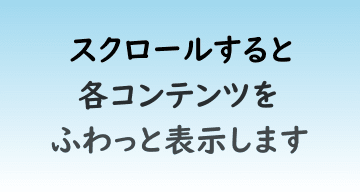
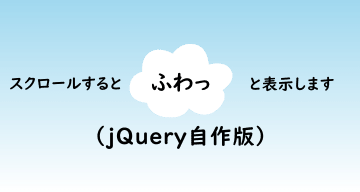
UPDATE

Changed region(s): [[0.0306, 0.1875, 0.9472, 0.625], [0.1222, 0.6562, 0.8556, 0.8125]]

diff --git a/sample-code/54/index.html b/sample-code/54/index.html
@@ -1,0 +1,151 @@
+<!DOCTYPE html>
+<html lang="ja">
+<head prefix="og: http://ogp.me/ns# article: http://ogp.me/ns/article#">
+  <meta charset="utf-8">
+  <meta http-equiv="X-UA-Compatible" content="IE=edge">
+  <meta name="viewport" content="width=device-width,initial-scale=1">
+  <link rel="stylesheet" href="style.css">
+  <link rel="icon" href="../../favicon.ico">
+  <link rel="canonical" href="https://yellowredfox.github.io/sample-code/54">
+  <title>スクロール時に、ふわっと表示させる方法（ScrollReveal.js版）</title>
+  <meta name="format-detection" content="telephone=no">
+  <meta name="description" content="ページをスクロールすると、各コンテンツが下からふわっと表れるようにする方法です。ScrollReveal.js使用。">
+  <meta name="author" content="イールド（月の森デザイン）">
+  <meta property="og:locale" content="ja_JP">
+  <meta property="og:site_name" content="キアカラボ">
+  <meta property="og:title" content="スクロール時に、ふわっと表示させる方法（ScrollReveal.js版）">
+  <meta property="og:description" content="ページをスクロールすると、各コンテンツが下からふわっと表れるようにする方法です。ScrollReveal.js使用。">
+  <meta property="og:type" content="article">
+  <meta property="og:url" content="https://yellowredfox.github.io/sample-code/54">
+</head>
+<body>
+
+  <header class="header">
+    <div class="header__container">
+      <h1 class="siteTitle" data-subtitle="スクロール時に、ふわっと表示させる方法（ScrollReveal.js版）">スクロールふわっと</h1>
+    </div>
+  </header>
+
+  <main class="main">
+    <div class="main__inner">
+
+      <section class="contents">
+        <h2 class="heading-2" data-subheading="A brief description of the code">コード概要</h2>
+        <section class="content">
+          <h3 class="heading-3">要点</h3>
+          <p>今回は、ふわっと表示です。ページをスクロールしていくと、各コンテンツが少し下の位置からふわっと表れるようにする方法です。以前、<a href="https://yellowredfox.github.io/sample-code/3">jQueryを利用して自作</a>しましたが、今回は jQueryライブラリのScrollReveal.jsを試してみました。ポイントは以下ようです。</p>
+          <ul>
+            <li>事前に、ふわっと表示したい領域（ここでは .content）を用意しておく。</li>
+            <li>jQuery・ScrollReveal.js・main.jsを読み込む。</li>
+            <li>ScrollReveal.jsに関する設定を main.jsで行う。ふわっと表示したい領域（ここでは '.content'）を指定し、あとは、duration・viewFactor・distanceなどの設定を行えば OKです。</li>
+          </ul>
+        </section>
+        <!-- /.content -->
+        <section class="content">
+          <h3 class="heading-3">コード</h3>
+          <h4 class="heading-4">HTML</h4>
+<pre class="code">
+<code>
+&lt;!-- ふわっと表示したい領域 --&gt;
+&lt;section class="content"&gt;
+～（コンテンツ）～
+&lt;/section&gt;
+
+&lt;!-- jQuery・ScrollReveal.js・main.jsを読み込む --&gt;
+&lt;script src="https://ajax.googleapis.com/ajax/libs/jquery/3.3.1/jquery.min.js"&gt;&lt;/script&gt;
+&lt;script src="https://unpkg.com/scrollreveal"&gt;&lt;/script&gt;
+&lt;script src="main.js"&gt;&lt;/script&gt;
+</code>
+</pre>
+
+          <h4 class="heading-4">jQuery</h4>
+<pre class="code">
+<code>
+$(function() {
+  ScrollReveal().reveal('.content', { 
+    duration: 2000, // アニメーションの開始から終了までの時間
+    viewFactor: 0.3, // どれくらい見えたら実行するか指定（値：0～1）
+    distance: '100px', // 下から移動表示する場合の長さ
+  });
+});
+</code>
+</pre>
+
+        </section>
+        <!-- /.content -->
+      </section>
+      <!-- /.contents -->
+
+      <section class="contents">
+        <h2 class="heading-2" data-subheading="Articles related to this information">関連記事</h2>
+        <section class="content">
+          <ul>
+            <li><a href="https://yellowredfox.github.io/sample-code/3">スクロール時に、ふわっと表示させる方法（jQuery自作版）</a></li>
+          </ul>
+        </section>
+        <!-- /.content -->
+      </section>
+      <!-- /.contents -->
+
+      <section class="contents">
+        <h2 class="heading-2" data-subheading="Editor's Note and Document that I used as a reference">編集後記</h2>
+        <section class="content">
+          <h3 class="heading-3">あとがき</h3>
+          <ul>
+            <li>時間をかけずに、スクロール時にふわっと表示させたいときは便利です。</li>
+          </ul>
+        </section>
+        <!-- /.content -->
+        <section class="content">
+          <h3 class="heading-3">参考資料</h3>
+          <p>試用しました。ありがとうございました。</p>
+          <ul>
+            <li><a href="https://scrollrevealjs.org/" target="_blank" rel="noopener noreferrer">ScrollReveal</a></li>
+          </ul>
+        </section>
+        <!-- /.content -->
+      </section>
+      <!-- /.contents -->
+
+      <div class="postFooter">
+        <div class="postDate">
+          作成日: <time class="releaseDate" datetime="2021-6-25">2021年6月25日</time>
+        </div>
+        <div class="postAuthor">
+          投稿者: イールド
+        </div>
+      </div>
+      <!-- /.postFooter -->
+
+    </div>
+    <!-- /.main__inner -->
+  </main>
+  
+  <footer class="footer">
+    <div class="footer__inner">
+      <div class="profile">
+        <a class="backSignboard" href="https://yellowredfox.github.io/">
+          <img class="backSignboard__logo" src="../../img/logo-yellowredfox.png" alt="月の森デザインの漫画キャラクター：黄赤狐のプロフィールロゴ">
+          <h2 class="backSignboard__title">キアカラボ</h2>
+        </a>
+        <p class="office">
+          キアカラボは「<a href="https://moon-forest-design.com/" title="ホームページ制作の「月の森デザイン」" target="_blank" rel="noopener noreferrer">月の森デザイン</a>」の姉妹サイトです。
+        </p>
+      </div>
+      <div class="copyright">
+        <p><small>Copyright &copy; 2021 <a class="copyrightHolder" href="https://moon-forest-design.com/" title="ホームページ制作の「月の森デザイン」" target="_blank" rel="noopener noreferrer">月の森デザイン</a> All Rights Reserved.</small></p>
+      </div>
+    </div>
+  </footer>
+
+  <noscript>
+    <p>お使いのWebブラウザは、JavaScriptの設定がOFF（無効）になっているようです。</p>
+    <p>このWebサイトを、より良い形でご利用になるためには、JavaScriptの設定をON（有効）にする必要があります。</p>
+    <p>お手間さまですが、ご検討くださいますよう、よろしくお願い申しあげます。</p>
+  </noscript>
+  <script src="https://ajax.googleapis.com/ajax/libs/jquery/3.3.1/jquery.min.js"></script>
+  <script src="https://unpkg.com/scrollreveal"></script>
+  <script src="main.js"></script>
+
+</body>
+</html>

diff --git a/sample-code/3/index.html b/sample-code/3/index.html
@@ -7,14 +7,14 @@
   <link rel="stylesheet" href="style.css">
   <link rel="icon" href="../../favicon.ico">
   <link rel="canonical" href="https://yellowredfox.github.io/sample-code/3">
-  <title>ページをスクロールすると、各コンテンツが下からふわっと表れるようにする方法</title>
+  <title>スクロール時に、ふわっと表示させる方法（jQuery自作版）</title>
   <meta name="format-detection" content="telephone=no">
-  <meta name="description" content="ページをスクロールすると、各コンテンツが下からふわっと表れるようにする方法です。jQuery使用。">
+  <meta name="description" content="ページをスクロールすると、各コンテンツが下からふわっと表れるようにする方法です。jQueryを利用して自作。">
   <meta name="author" content="イールド（月の森デザイン）">
   <meta property="og:locale" content="ja_JP">
   <meta property="og:site_name" content="キアカラボ">
-  <meta property="og:title" content="ページをスクロールすると、各コンテンツが下からふわっと表れるようにする方法">
-  <meta property="og:description" content="ページをスクロールすると、各コンテンツが下からふわっと表れるようにする方法です。jQuery使用。">
+  <meta property="og:title" content="スクロール時に、ふわっと表示させる方法（jQuery自作版）">
+  <meta property="og:description" content="ページをスクロールすると、各コンテンツが下からふわっと表れるようにする方法です。jQueryを利用して自作。">
   <meta property="og:type" content="article">
   <meta property="og:url" content="https://yellowredfox.github.io/sample-code/3">
 </head>
@@ -22,7 +22,7 @@
 
   <header class="header">
     <div class="header__container">
-      <h1 class="siteTitle" data-subtitle="ページをスクロールすると">ふわっと表示する方法</h1>
+      <h1 class="siteTitle" data-subtitle="スクロール時に、ふわっと表示させる方法（jQuery自作版）">スクロールふわっと</h1>
     </div>
   </header>
 
@@ -101,8 +101,8 @@ $(function() {
         <h2 class="heading-2" data-subheading="Articles related to this information">関連記事</h2>
         <section class="content">
           <ul>
+            <li><a href="https://yellowredfox.github.io/sample-code/54">スクロール時に、ふわっと表示させる方法（ScrollReveal.js版）</a></li>
             <li><a href="https://yellowredfox.github.io/sample-code/1">ヘッダーをウィンドウ画面いっぱいに表示して、タイトルを上下左右中央揃えにする方法</a></li>
-            <li><a href="https://yellowredfox.github.io/sample-code/2">ページのスクロールを促す方法（アニメーション付き）</a></li>
           </ul>
         </section>
         <!-- /.content -->

diff --git a/index.html b/index.html
@@ -956,14 +956,33 @@
 
           <div class="card">
             <h3 class="cardTitle">
+              <a class="cardTitle__link" href="sample-code/54/index.html" target="_blank">
+                スクロールふわっと2
+              </a>
+            </h3>
+            <figure class="cardThumbnail">
+              <a class="cardThumbnail__link" href="sample-code/54/index.html" target="_blank">
+                <img class="cardThumbnail__img" src="img/sample-code54.png" alt="スクロールでふわっと表示。ScrollReveal.js使用。" width="260" height="140" loading="lazy">
+                <p class="cardThumbnail__description">ページをスクロールすると、各コンテンツが下からふわっと表れるようにする方法です。ScrollReveal.js使用。</p>
+              </a>
+              <ul class="cardMenu">
+                <li class="cardMenu__item"><a class="cardMenu__link" href="sample-code/54/index.html" target="_blank">Sample</a></li>
+                <li class="cardMenu__item"><a class="cardMenu__link" href="https://github.com/yellowredfox/yellowredfox.github.io/tree/main/sample-code/54" target="_blank">Code</a></li>
+              </ul>
+            </figure>
+          </div>
+          <!-- /.card -->
+
+          <div class="card">
+            <h3 class="cardTitle">
               <a class="cardTitle__link" href="sample-code/3/index.html" target="_blank">
-                スクロールでふわっと表示
+                スクロールふわっと1
               </a>
             </h3>
             <figure class="cardThumbnail">
               <a class="cardThumbnail__link" href="sample-code/3/index.html" target="_blank">
-                <img class="cardThumbnail__img" src="img/sample-code3.png" alt="スクロールでふわっと表示" width="260" height="140" loading="lazy">
-                <p class="cardThumbnail__description">ページをスクロールすると、各コンテンツが下からふわっと表れるようにする方法です。</p>
+                <img class="cardThumbnail__img" src="img/sample-code3.png" alt="スクロールでふわっと表示。jQueryを利用して自作。" width="260" height="140" loading="lazy">
+                <p class="cardThumbnail__description">ページをスクロールすると、各コンテンツが下からふわっと表れるようにする方法です。jQueryを利用して自作。</p>
               </a>
               <ul class="cardMenu">
                 <li class="cardMenu__item"><a class="cardMenu__link" href="sample-code/3/index.html" target="_blank">Sample</a></li>

diff --git a/sample-code/54/style.css b/sample-code/54/style.css
@@ -47,7 +47,7 @@ body {
     font-size: 3rem;
   }
   .siteTitle::after {
-    font-size: 1.0rem;
+    font-size: 0.9rem;
   }
 }
 @media screen and (min-width: 577px) and (max-width: 991px) { /* タブレット用 */
@@ -55,7 +55,7 @@ body {
     font-size: 6rem;
   }
   .siteTitle::after {
-    font-size: 2rem;
+    font-size: 1.8rem;
   }
 }
 @media screen and (min-width: 992px) { /* それ以外用 */
@@ -63,7 +63,7 @@ body {
     font-size: 7.4rem;
   }
   .siteTitle::after {
-    font-size: 2.4rem;
+    font-size: 2.25rem;
   }
 }
 
@@ -100,19 +100,6 @@ body {
   font-size: 1.6rem;
   margin-bottom: 10em;
 }
-
-.contents,
-.content {
-  opacity: 0;
-  transform: translateY(100px);
-  transition: all 1.5s;
-}
-.contents.visible,
-.content.visible {
-  opacity: 1;
-  transform: translateY(0);
-}
-
 .heading-2 {
   font-size: 2rem;
   margin-bottom: 2em;
@@ -158,13 +145,13 @@ body {
   text-decoration: none;
 }
 .code {
-	padding: 0 1.5em;
-	box-sizing: border-box;
-	margin: 0 auto;
-	border: 1px solid #eae5e3;
-	box-shadow: 0 0 10px -5px rgba(0, 0, 0, .5) inset;
-	border-radius: 4px;
-	white-space: pre-wrap;
+  padding: 0 1.5em;
+  box-sizing: border-box;
+  margin: 0 auto;
+  border: 1px solid #eae5e3;
+  box-shadow: 0 0 10px -5px rgba(0, 0, 0, .5) inset;
+  border-radius: 4px;
+  white-space: pre-wrap;
 }
 .postFooter {
   font-size: 1.6rem;

diff --git a/sample-code/54/main.js b/sample-code/54/main.js
@@ -1,0 +1,18 @@
+{ // ブロックスコープ(START)
+"use strict";
+
+
+// jQueryを使うよ
+$(function() {
+  // ふわっと表示（ScrollReveal.js）を使うよ
+  ScrollReveal().reveal('.content', { 
+    duration: 2000, // アニメーションの開始から終了までの時間
+    viewFactor: 0.3, // どれくらい見えたら実行するか指定（値：0～1）
+    distance: '100px', // 下から移動表示する場合の長さ
+    // reset: true, // 処理を繰り返すか？
+  });
+
+});
+
+
+} // ブロックスコープ(END)
